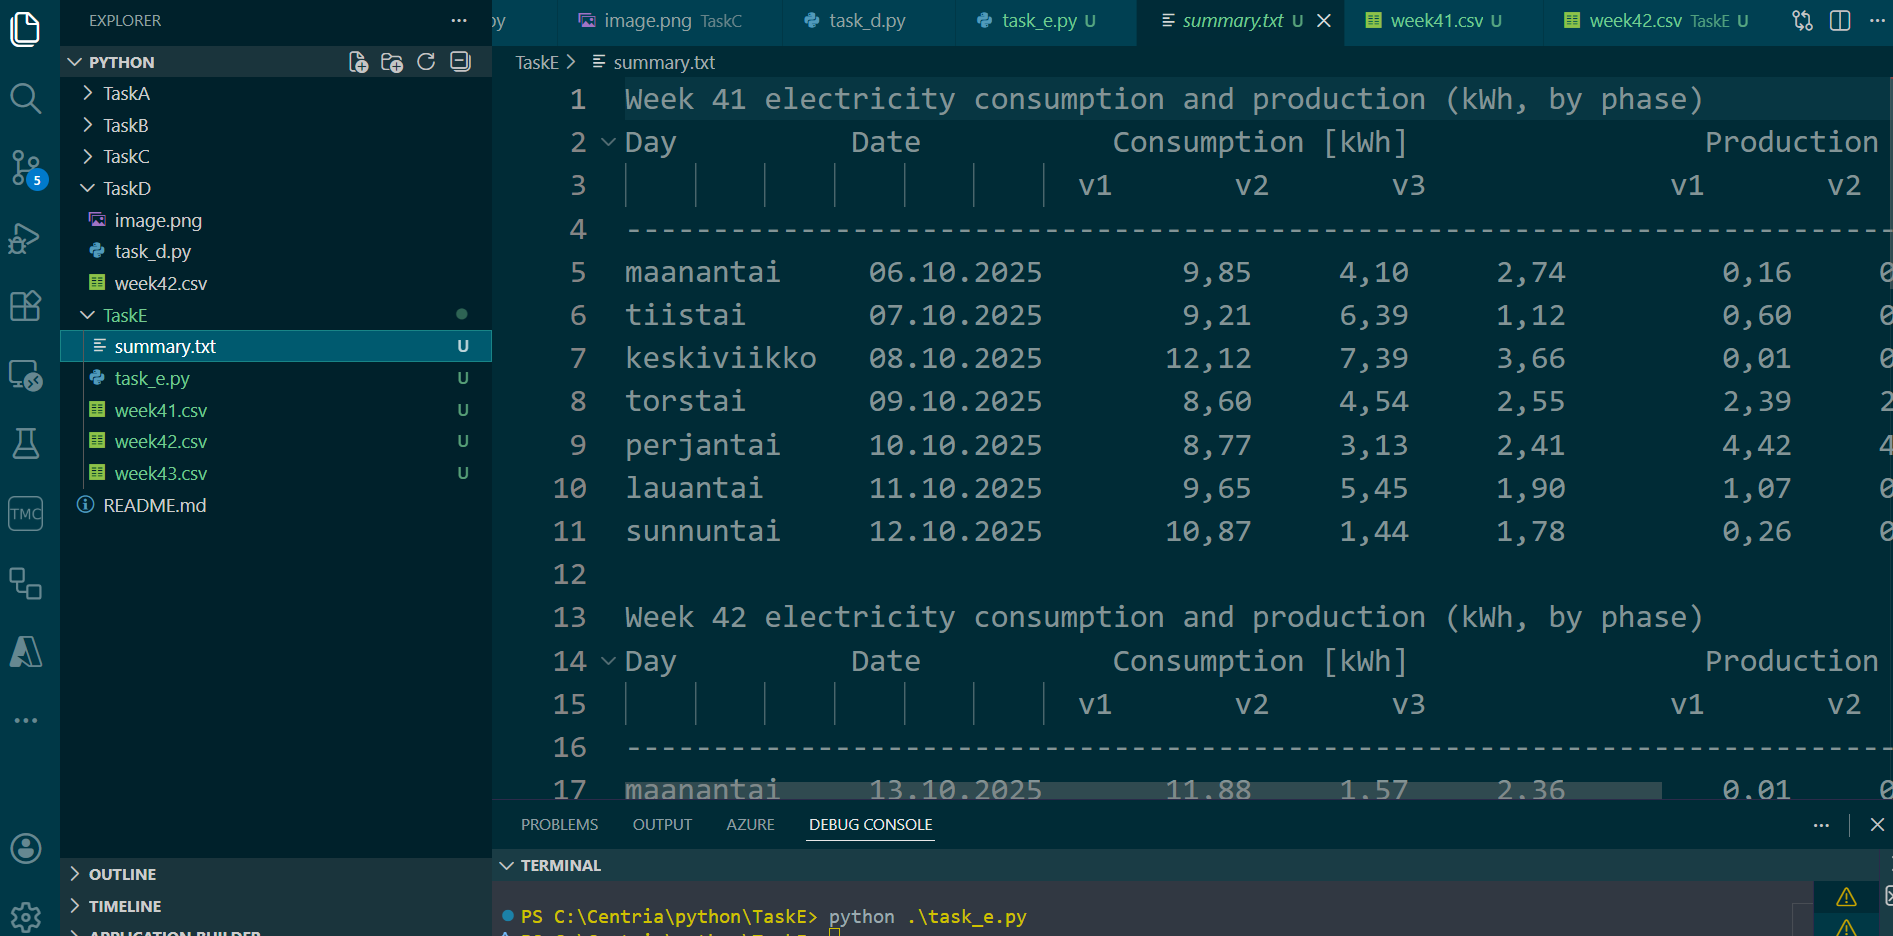
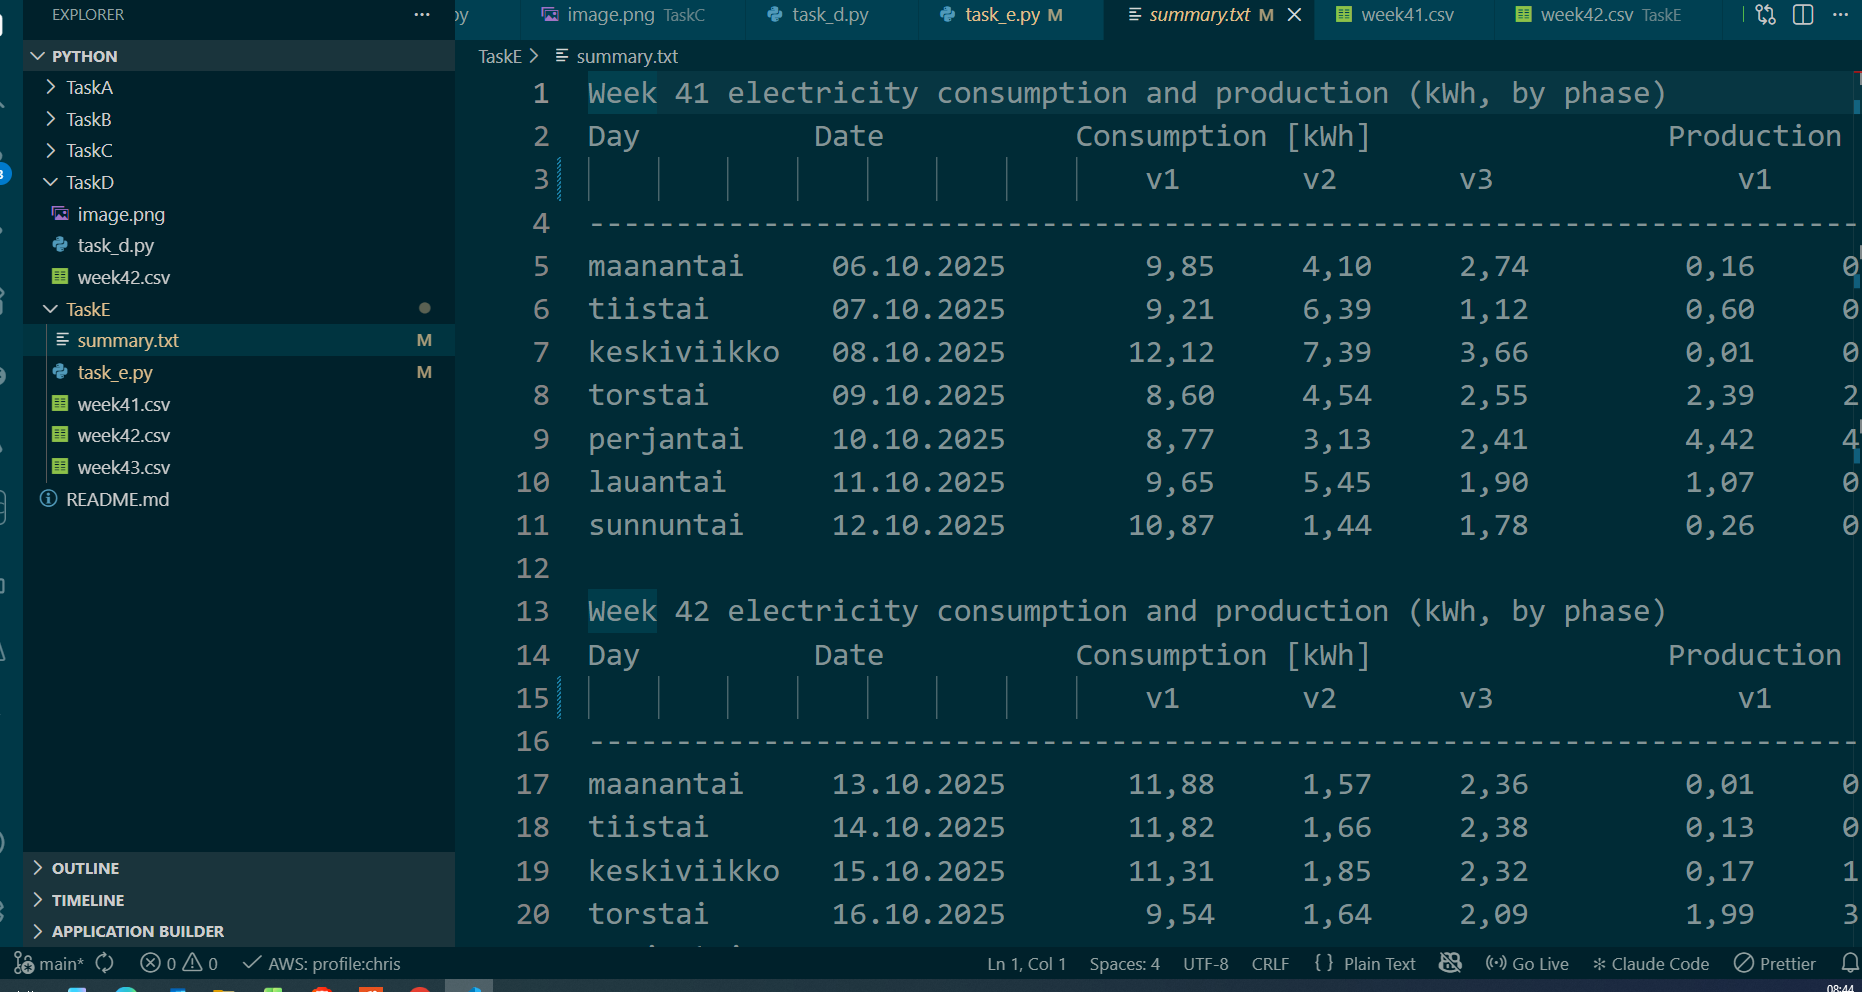
final task_e

diff --git a/TaskE/task_e.py b/TaskE/task_e.py
@@ -46,19 +46,12 @@ def weekday_fi(d: date) -> str:
 def calculate_daily_summaries(rows: List[List[str]]) -> Dict[date, Totals]:
     """
     Calculates daily totals (kWh) for consumption and production by phase.
-
-    Expects rows where:
-      col0 = ISO timestamp (e.g. 2025-10-13T00:00:00)
-      col1-3 = consumption phases v1-v3 in Wh
-      col4-6 = production phases v1-v3 in Wh
-    Returns: mapping date -> Totals(cons=(v1,v2,v3), prod=(v1,v2,v3)) in kWh.
     """
     daily_wh: Dict[date, List[float]] = {}  # [c1,c2,c3,p1,p2,p3] in Wh
 
-    for row in rows[1:]:  # skip header
+    for row in rows[1:]:  
         dt = datetime.fromisoformat(row[0])
         day = dt.date()
-
         # Parse Wh values
         c1, c2, c3 = float(row[1]), float(row[2]), float(row[3])
         p1, p2, p3 = float(row[4]), float(row[5]), float(row[6])
@@ -91,7 +84,7 @@ def format_week_section(week_number: int, daily: Dict[date, Totals]) -> str:
     lines: List[str] = []
     lines.append(f"Week {week_number} electricity consumption and production (kWh, by phase)")
     lines.append("Day          Date           Consumption [kWh]                 Production [kWh]")
-    lines.append("                          v1       v2       v3              v1       v2       v3")
+    lines.append("                                v1       v2       v3              v1       v2       v3")
     lines.append("-" * 83)
 
     for day in sorted(daily.keys()):
